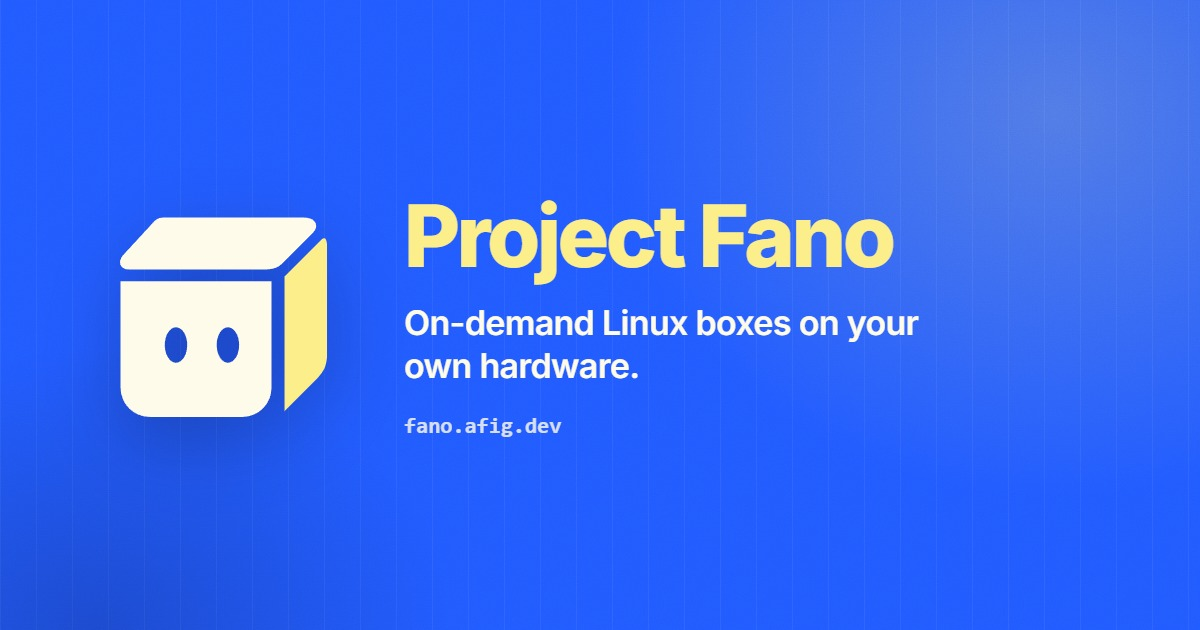
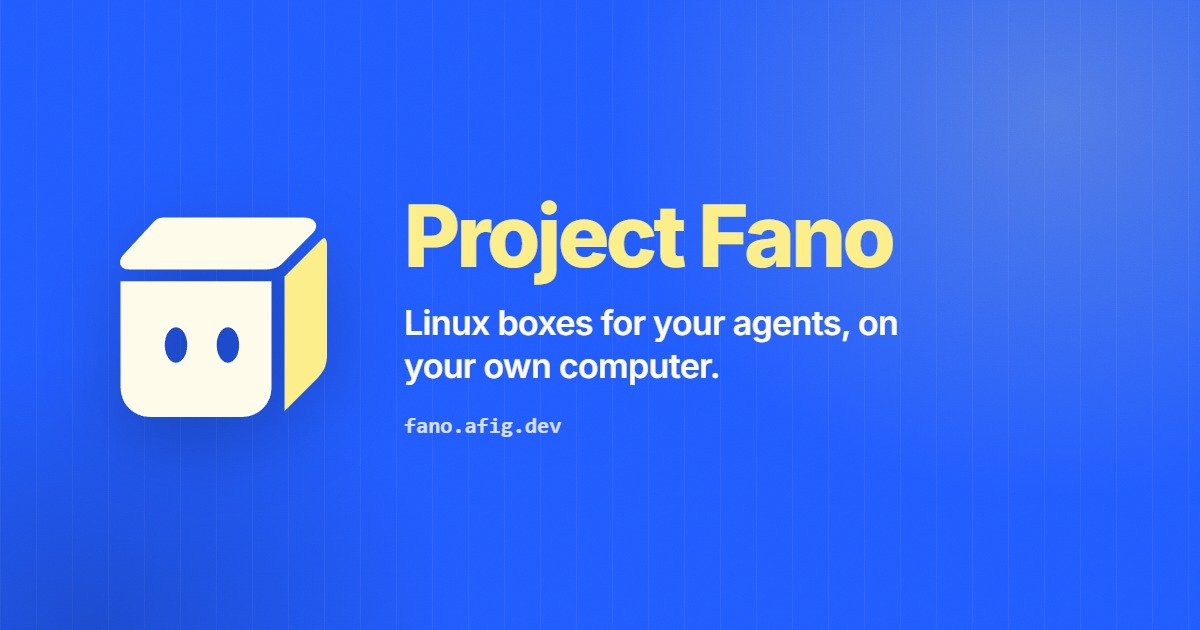
docs(site): rewrite landing page and OG copy in plainer, more natural language

Changed region(s): [[0.3392, 0.4825, 0.7708, 0.6032]]

diff --git a/site/index.html b/site/index.html
@@ -5,20 +5,20 @@
 <head>
 <meta charset="utf-8">
 <meta name="viewport" content="width=device-width, initial-scale=1">
-<title>Project Fano — On-demand Linux boxes on your own hardware</title>
-<meta name="description" content="Coding agents offload heavy tests and builds to a spare Linux server or Windows PC inside disposable Incus containers. You choose how much of the machine they get.">
+<title>Project Fano — Linux boxes for your agents, on your own computer</title>
+<meta name="description" content="Keep heavy tests and builds off your laptop. Send them to a spare Linux server or your gaming PC, and take the PC back whenever you want it.">
 <link rel="canonical" href="https://fano.afig.dev/">
 <link rel="alternate" type="text/markdown" href="/llms.txt" title="Project Fano, for coding agents">
 <meta name="theme-color" content="#225BFF">
 <meta property="og:type" content="website">
 <meta property="og:site_name" content="Project Fano">
 <meta property="og:url" content="https://fano.afig.dev/">
-<meta property="og:title" content="Project Fano — On-demand Linux boxes on your own hardware">
-<meta property="og:description" content="Coding agents offload heavy tests and builds to a spare Linux server or Windows PC inside disposable Incus containers. You choose how much of the machine they get.">
+<meta property="og:title" content="Project Fano — Linux boxes for your agents, on your own computer">
+<meta property="og:description" content="Keep heavy tests and builds off your laptop. Send them to a spare Linux server or your gaming PC, and take the PC back whenever you want it.">
 <meta property="og:image" content="https://fano.afig.dev/og.jpg">
 <meta property="og:image:width" content="1200">
 <meta property="og:image:height" content="630">
-<meta property="og:image:alt" content="The Project Fano box logo on cobalt blue beside the words: Project Fano — On-demand Linux boxes on your own hardware.">
+<meta property="og:image:alt" content="The Project Fano box logo on cobalt blue beside the words: Project Fano — Linux boxes for your agents, on your own computer.">
 <meta name="twitter:card" content="summary_large_image">
 <link rel="icon" href="/favicon.svg" type="image/svg+xml">
 <link rel="icon" href="/favicon-32.png" type="image/png" sizes="32x32">
@@ -32,7 +32,7 @@
   "@type": "SoftwareApplication",
   "name": "Project Fano",
   "alternateName": "agent-box",
-  "description": "On-demand, disposable Linux containers on your own Linux server or Windows PC for coding agents.",
+  "description": "Throwaway Linux boxes for coding agents, running on a spare Linux server or Windows PC you already own.",
   "applicationCategory": "DeveloperApplication",
   "operatingSystem": "macOS, Linux, Windows",
   "url": "https://fano.afig.dev/",
@@ -146,7 +146,7 @@
     gap: 28px clamp(28px, 5vw, 64px);
   }
   h1 {
-    font-size: clamp(32px, 4.8vw, 56px);
+    font-size: clamp(30px, 4.4vw, 52px);
     font-weight: 700;
     letter-spacing: -.035em;
     line-height: 1.07;
@@ -313,11 +313,11 @@
 
     <div class="hero">
       <div>
-        <h1><span>On-demand Linux boxes</span><em>on your own hardware.</em></h1>
-        <p class="lead">Coding agents offload heavy tests and builds to a spare Linux server or Windows PC. You choose how much of the machine they get.</p>
+        <h1><span>Linux boxes for your agents,</span><em>on your own computer.</em></h1>
+        <p class="lead">Keep heavy tests and builds off your laptop. Send them to a spare Linux server or your gaming PC, and take the PC back whenever you want it.</p>
         <div class="actions">
           <a class="button" href="https://github.com/a-Fig/agent-box">View on GitHub</a>
-          <span class="status">Early work in progress</span>
+          <span class="status">Still early</span>
         </div>
       </div>
 
@@ -335,19 +335,19 @@
     <div class="facts">
       <section class="fact">
         <h2>What it does</h2>
-        <p>Runs disposable Linux containers with Incus. Heavy test suites, <code>-race</code>, and builds run there instead of starving your laptop.</p>
+        <p>Project Fano spins up throwaway Linux boxes on your other machine, using Incus. Big test suites and builds happen there instead of bogging down your laptop.</p>
       </section>
       <section class="fact">
         <h2>How it works</h2>
-        <p>The <code>box</code> CLI and MCP server snapshot your working tree, run the command in a container, and return the result. On Windows, a tray menu picks <strong>My PC</strong>, <strong>Shared</strong>, or <strong>Full</strong>.</p>
+        <p>Agents use the <code>box</code> CLI or MCP tool to copy your working tree to a box, run a command, and get the output back. On Windows, a tray icon lets you switch between <strong>My PC</strong>, <strong>Shared</strong>, and <strong>Full</strong>.</p>
       </section>
       <section class="fact">
         <h2>Why Fano</h2>
-        <p>Named for Robert Fano (1917–2016), who founded MIT's Project MAC in 1963 and pioneered time-sharing: turning one computer into a shared utility.</p>
+        <p>Named after Robert Fano, who started MIT's Project MAC in 1963 and helped invent time-sharing: the idea that one computer can be shared like a utility.</p>
       </section>
       <section class="fact">
-        <h2>Status</h2>
-        <p>Built for daily use on one setup first and not ready for outside users yet. Source and docs live at <a href="https://github.com/a-Fig/agent-box">github.com/a-Fig/agent-box</a>.</p>
+        <h2>Where it's at</h2>
+        <p>Right now it's built around one person's daily setup and isn't ready for outside use yet. The code and notes are public at <a href="https://github.com/a-Fig/agent-box">github.com/a-Fig/agent-box</a>.</p>
       </section>
     </div>
   </div>
